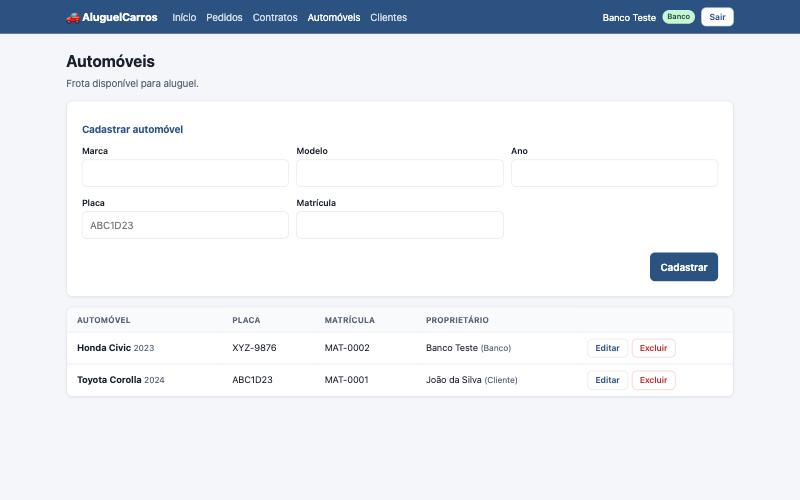
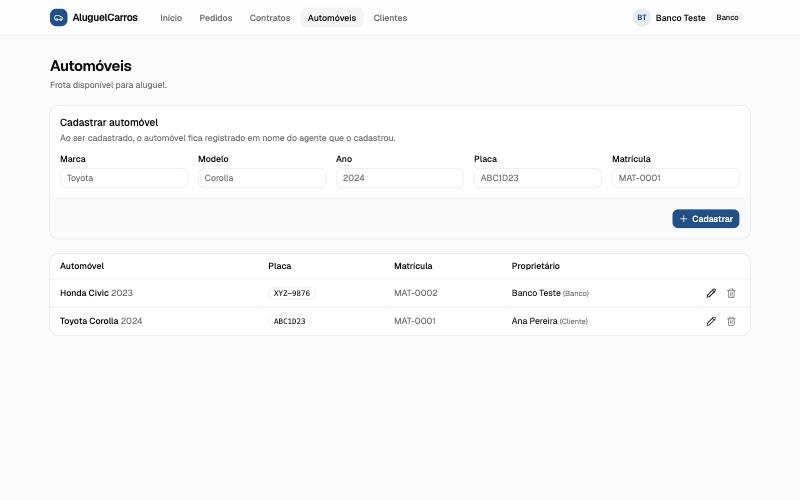
Atualiza diagrama de pacotes, README e capturas de tela com a nova interface

diff --git a/README.md b/README.md
@@ -24,7 +24,7 @@
 
 ## 🚧 Status do Projeto
 
-![Versão](https://img.shields.io/badge/Versão-v1.0.0-blue?style=for-the-badge) ![Java](https://img.shields.io/badge/Java-25-007ec6?style=for-the-badge&logo=openjdk&logoColor=white) ![Spring Boot](https://img.shields.io/badge/Spring_Boot-4.0.9-007ec6?style=for-the-badge&logo=springboot&logoColor=white) ![Maven](https://img.shields.io/badge/Maven-3.9-007ec6?style=for-the-badge&logo=apachemaven&logoColor=white) ![React](https://img.shields.io/badge/React-19.3-007ec6?style=for-the-badge&logo=react&logoColor=white) ![Vite](https://img.shields.io/badge/Vite-6.4-007ec6?style=for-the-badge&logo=vite&logoColor=white) ![Supabase](https://img.shields.io/badge/Supabase-PostgreSQL_17-007ec6?style=for-the-badge&logo=supabase&logoColor=white) ![GitHub last commit](https://img.shields.io/github/last-commit/GuilhermeCostax/AlugelCarros?style=for-the-badge&logo=clockify)
+![Versão](https://img.shields.io/badge/Versão-v1.0.0-blue?style=for-the-badge) ![Java](https://img.shields.io/badge/Java-25-007ec6?style=for-the-badge&logo=openjdk&logoColor=white) ![Spring Boot](https://img.shields.io/badge/Spring_Boot-4.0.9-007ec6?style=for-the-badge&logo=springboot&logoColor=white) ![Maven](https://img.shields.io/badge/Maven-3.9-007ec6?style=for-the-badge&logo=apachemaven&logoColor=white) ![React](https://img.shields.io/badge/React-19.3-007ec6?style=for-the-badge&logo=react&logoColor=white) ![Vite](https://img.shields.io/badge/Vite-6.4-007ec6?style=for-the-badge&logo=vite&logoColor=white) ![Tailwind CSS](https://img.shields.io/badge/Tailwind_CSS-4-007ec6?style=for-the-badge&logo=tailwindcss&logoColor=white) ![shadcn/ui](https://img.shields.io/badge/shadcn%2Fui-007ec6?style=for-the-badge&logo=shadcnui&logoColor=white) ![Supabase](https://img.shields.io/badge/Supabase-PostgreSQL_17-007ec6?style=for-the-badge&logo=supabase&logoColor=white) ![GitHub last commit](https://img.shields.io/github/last-commit/GuilhermeCostax/AlugelCarros?style=for-the-badge&logo=clockify)
 
 ✅ Protótipo funcional concluído: autenticação, CRUD de clientes, automóveis, pedidos com status, avaliação financeira, contratos e crédito.
 
@@ -112,7 +112,9 @@ stateDiagram-v2
 * **Linguagem:** JavaScript (ES2022+, JSX)
 * **Roteamento:** React Router 7
 * **Requisições HTTP:** Axios 1 (interceptor que envia o token JWT)
-* **Estilização:** CSS puro com variáveis (sem framework)
+* **Estilização:** Tailwind CSS 4
+* **Componentes de interface:** [shadcn/ui](https://ui.shadcn.com/) (Radix UI) — Button, Card, Table, Tabs, Badge, Alert, AlertDialog, RadioGroup, DropdownMenu
+* **Ícones e notificações:** Lucide React e Sonner (toasts)
 * **Gerenciamento de Estado:** Context API (`AuthProvider`)
 * **Build Tool:** Vite 6
 
@@ -164,7 +166,7 @@ A modelagem foi feita antes da implementação (**v1**) e revisada durante o des
 | Classes | `Automovel.isDisponivel()` substituído por verificação de **conflito de períodos** | A disponibilidade depende do período solicitado, então a regra passou para uma consulta no repositório (`PedidoAluguelRepository.existeConflito`) usada pelo `PedidoService`. |
 | Classes | `Agente.avaliar(...)` e `Banco.concederCredito(...)` movidos | A avaliação virou responsabilidade do próprio pedido (`PedidoAluguel.aprovar/reprovar`), que controla suas transições de estado; a concessão de crédito ficou no `ContratoService`, que valida o perfil do usuário logado. |
 | Classes | Novos métodos `PedidoAluguel.novo(...)` e `contratar()`, constantes `MAX_RENDIMENTOS` e `STATUS_ATIVOS` | Concentram no modelo as regras de criação, máximo de 3 rendimentos e status que ocupam o automóvel. |
-| Pacotes | Detalhamento das classes de cada pacote e novo pacote `utils` no front-end | Deixar explícito o alinhamento entre a visão lógica e o código. |
+| Pacotes | Detalhamento das classes de cada pacote e novos pacotes `utils`, `components/ui` (shadcn/ui) e `lib` no front-end | Deixar explícito o alinhamento entre a visão lógica e o código e registrar a padronização visual com shadcn/ui. |
 | Histórias | Novas US17 e US18 e critérios de aceitação refinados | Regras descobertas durante a implementação (conflito de datas, limite do crédito ao valor do contrato, parcela pela Tabela Price). |
 
 ---
@@ -392,6 +394,8 @@ java -jar target/aluguel-carros-0.0.1-SNAPSHOT.jar
     └── /src
         ├── /pages                     # 📄 Telas (Login, Pedidos, Contratos...)
         ├── /components                # 🧱 Componentes reutilizáveis
+        │   └── /ui                    # 🎨 Componentes shadcn/ui (Button, Card, Table...)
+        ├── /lib                       # 🔧 utils (função cn do shadcn/ui)
         ├── /context                   # 🔐 Autenticação (Context API)
         ├── /routes                    # 🧭 Rotas públicas e protegidas
         ├── /services                  # 🔌 Chamadas HTTP (Axios)
@@ -493,6 +497,7 @@ npm run build
 * 📖 **Banco de Dados:** [Documentação do **Supabase**](https://supabase.com/docs)
 * 📖 **Front-end:** [Documentação do **React**](https://react.dev/reference/react) e [React Router](https://reactrouter.com/)
 * 📖 **Build Tool:** [Guia do **Vite**](https://vitejs.dev/guide/)
+* 📖 **Interface:** [**shadcn/ui**](https://ui.shadcn.com/docs) e [Tailwind CSS](https://tailwindcss.com/docs)
 * 📖 **Modelagem:** [PlantUML](https://plantuml.com/) e leitura sobre [Diagrama de Pacotes](https://www.uml-diagrams.org/package-diagrams.html)
 
 ---
